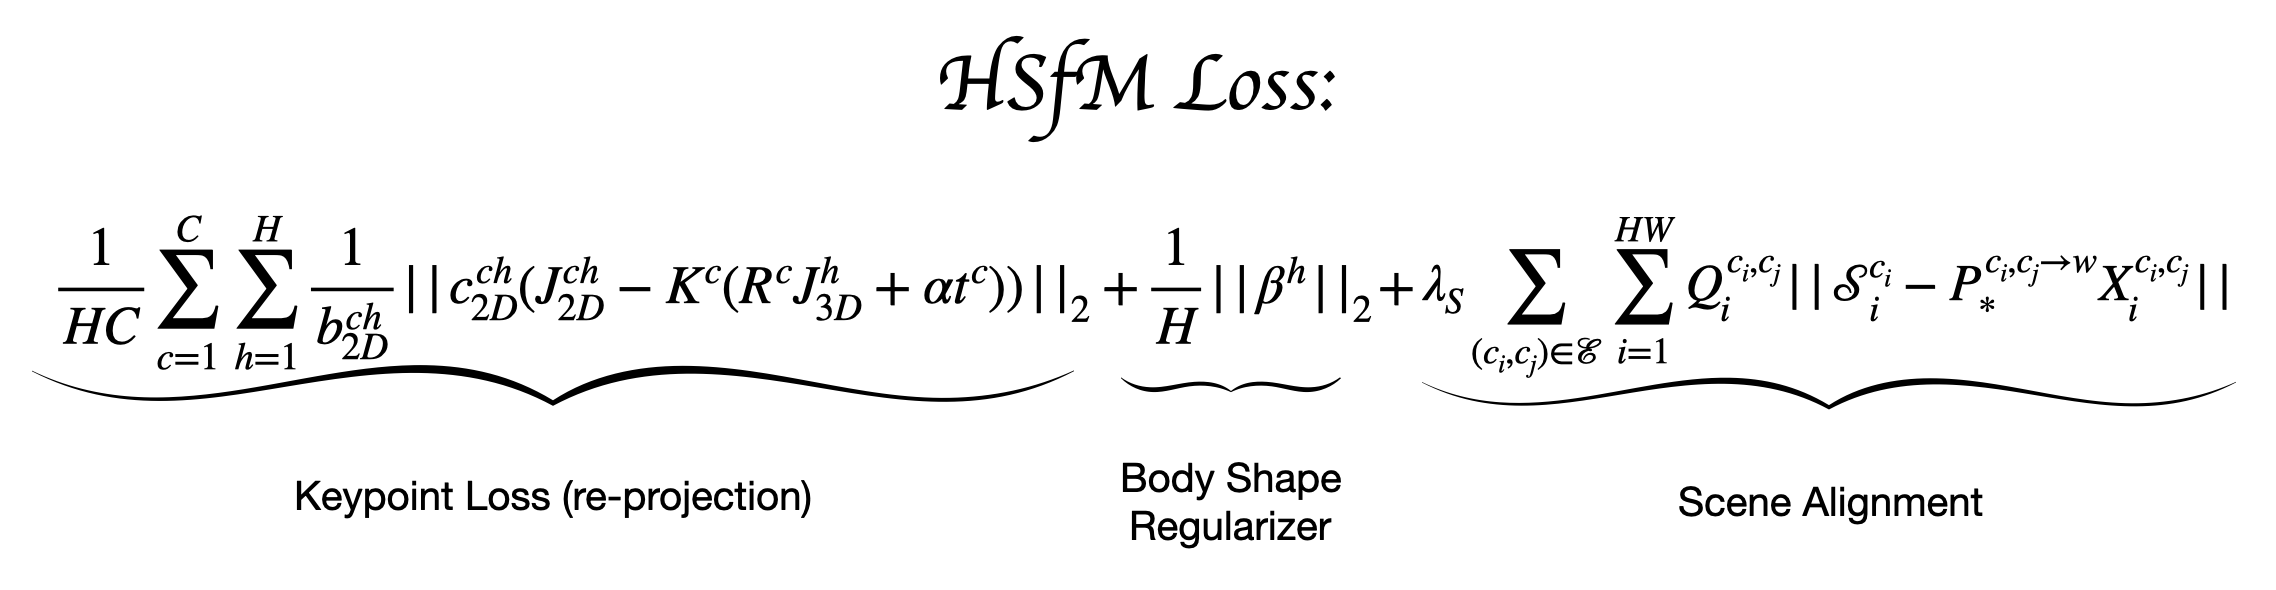
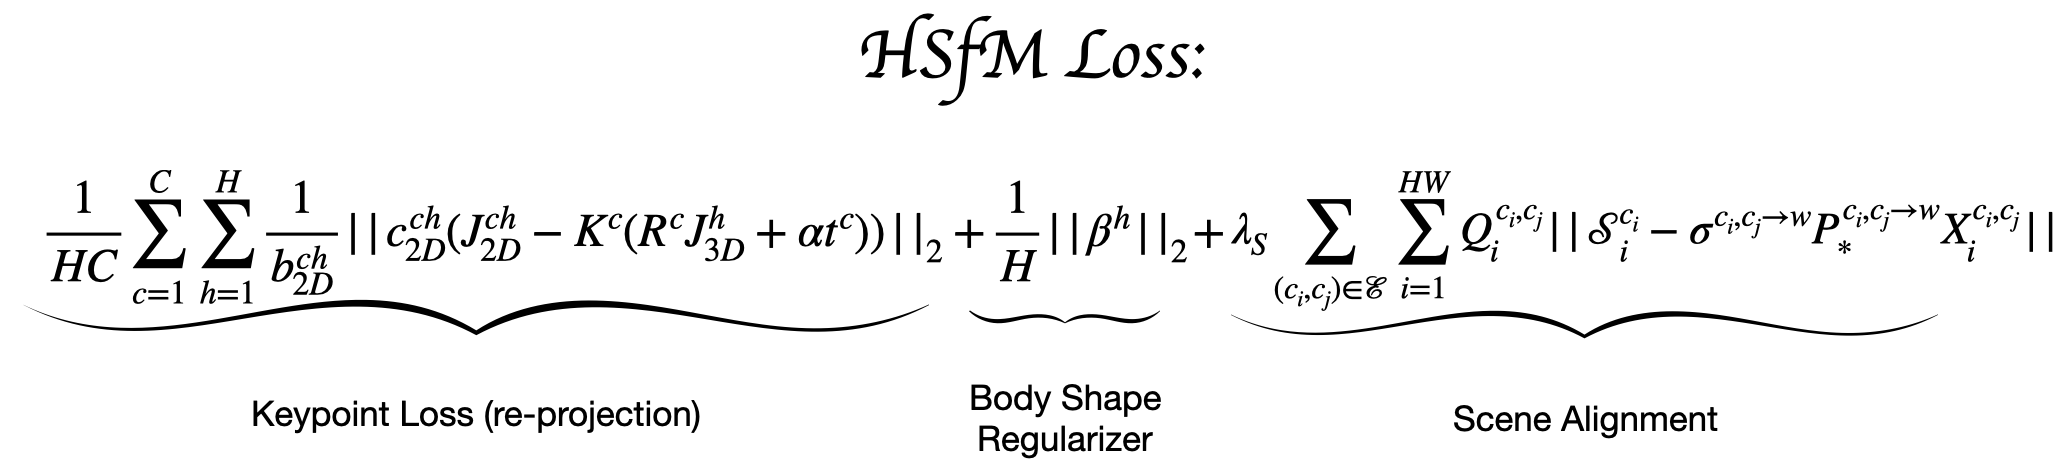
update equation with sigma

diff --git a/index.html b/index.html
@@ -447,6 +447,7 @@
           keypoint re-projection term performing bundle adjustment on 2D body
           joints, a body shape regularizer, and the global alignment loss from
           DUSt3R.
+          <br><br>
           <img src="./images/equation.png" alt="HSfM Loss" />
         </li>
       </ul>
@@ -478,7 +479,7 @@
       </div>
 
       <h2>Acknowledgements</h2>
-      The interactive results are powered by <a href="https://viser.studio/latest/" target="_blank">Viser</a>.  
+      The interactive results are powered <a href="https://viser.studio/latest/" target="_blank">Viser</a>.
       <br><br>
       This project is supported in part by DARPA No. HR001123C0021, IARPA DOI/IBC No. 140D0423C0035, NSF:CNS-2235013, 
       ONR MURI N00014-21-1-2801, Bakar Fellows, and Bair Sponsors. The views and conclusions contained herein are those 
